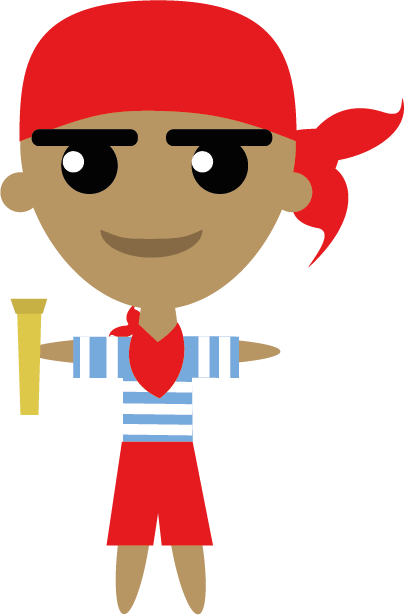
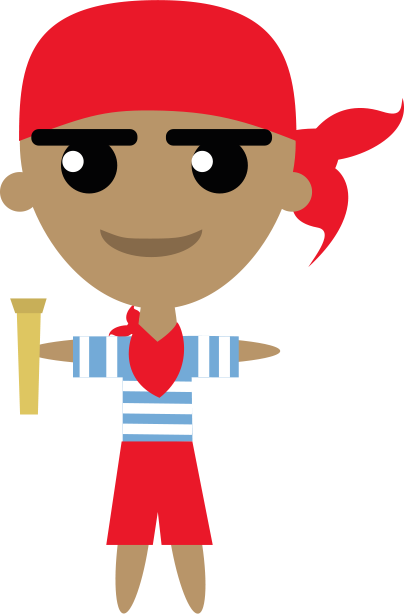
ChangePNG

diff --git a/piratecode.html b/piratecode.html
@@ -40,7 +40,7 @@
       <div class="levelBloc">
         <div class="level level1">
           <h2 class="txtLevel">NIVEAU 1</h2>
-          <img src="images/pirate1.jpg" alt="niveau1" class="levelImage image1">
+          <img src="images/pirate1.png" alt="niveau1" class="levelImage image1">
         </div>
         <div class="level level2">
           <h2 class="txtLevel">NIVEAU 2</h2>
